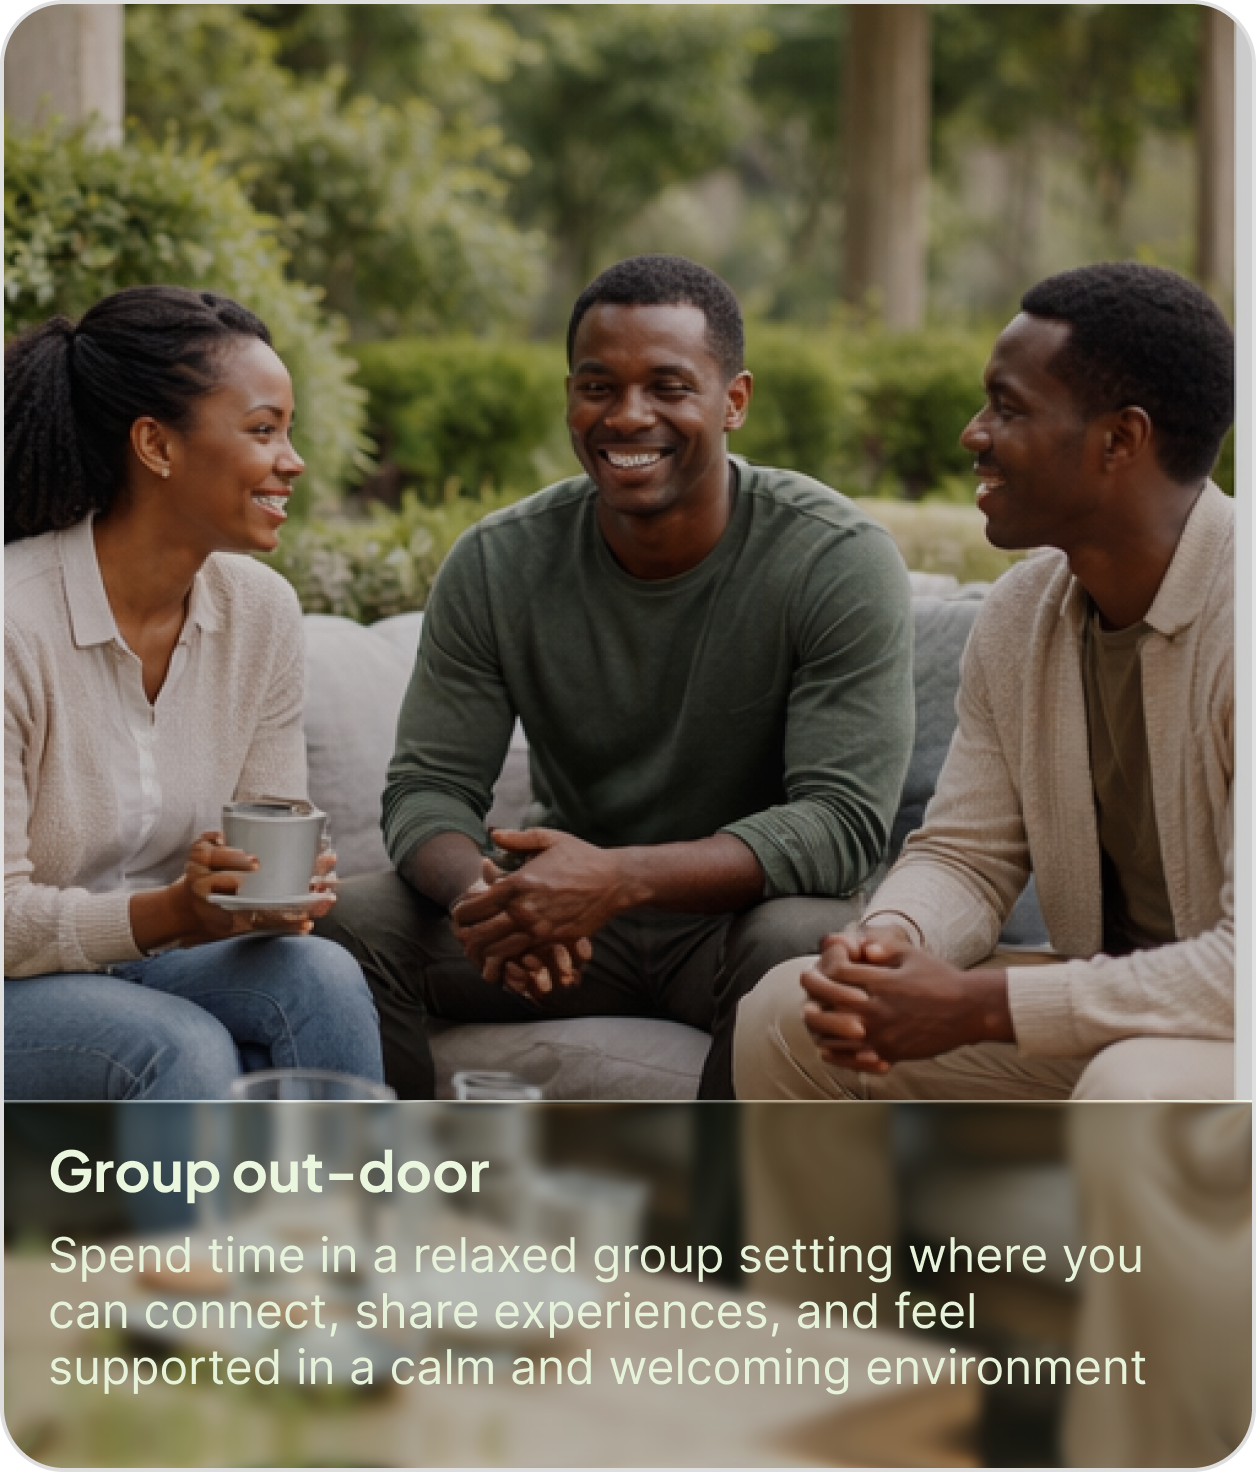
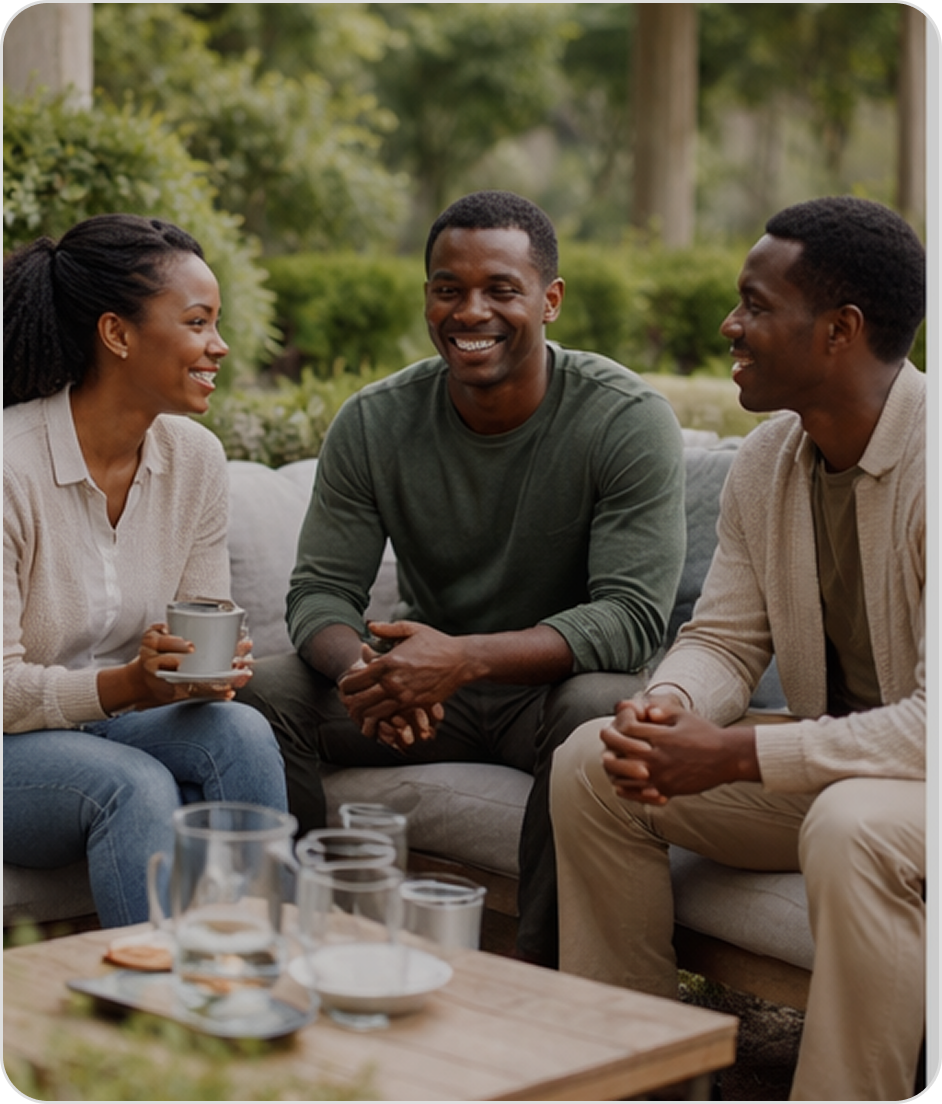
touched on camp page, added anmations to cards too

Changed region(s): [[0.0, 0.7391, 0.9236, 1.0], [0.6465, 0.7391, 1.0, 1.0], [0.0, 0.8931, 0.0308, 0.9239]]

diff --git a/components/pages/camps/glimpse.tsx b/components/pages/camps/glimpse.tsx
@@ -1,27 +1,30 @@
+"use client"; 
+
 import { Pill } from "@/components/ui/pill";
 import Image from "next/image";
+import { motion } from "motion/react";
 
 export function GlimpseGallery() {
   const images = [
     {
-      src: "/images/glimpse-1.webp", // using placeholder images
-      title: "Nature Walks",
-      subtitle: "Connect with the outdoors",
+      src: "/images/glimpse-1.png", 
+      title: "Group out-door",
+      subtitle: "Spend time in a relaxed group setting where you can connect, share experiences, and feel supported in a calm and welcoming environment",
     },
     {
-      src: "/images/glimpse-2.webp",
+      src: "/images/glimpse-2.png",
       title: "Journaling",
-      subtitle: "Time for quiet reflection",
+      subtitle: "Take quiet moments to reflect through guided journaling, helping you process thoughts and gain clarity at your own pace.",
     },
     {
-      src: "/images/glimpse-3.webp",
-      title: "Group Sessions",
-      subtitle: "Share and grow together",
+      src: "/images/glimpse-3.png",
+      title: "Walking in Nature",
+      subtitle: "Enjoy slow, mindful walks in a serene environment designed to help you reset, breathe, and reconnect with yourself.",
     },
     {
-      src: "/images/glimpse-4.webp",
-      title: "Quiet Meditation",
-      subtitle: "Find your inner peace",
+      src: "/images/glimpse-4.png",
+      title: "Calm Conversations",
+      subtitle: "Engage in gentle, meaningful conversations that allow you to express yourself freely and feel heard without pressure.",
     },
   ];
 
@@ -34,9 +37,13 @@ export function GlimpseGallery() {
 
       <div className="grid grid-cols-1 sm:grid-cols-2 lg:grid-cols-4 gap-4 w-full max-w-7xl">
         {images.map((img, idx) => (
-          <div
+          <motion.div
             key={idx}
-            className="group relative w-ull h-[368px] rounded-[16px] overflow-hidden bg-gray-200 cursor-pointer"
+            className="group relative w-full h-92 rounded-[16px] overflow-hidden bg-gray-200 cursor-pointer"
+            initial={{ opacity: 0, y: 24, scale: 0.98 }}
+            whileInView={{ opacity: 1, y: 0, scale: 1 }}
+            viewport={{ once: true, amount: 0.3 }}
+            transition={{ duration: 0.45, ease: "easeOut", delay: idx * 0.08 }}
           >
             <Image
               src={img.src}
@@ -44,14 +51,13 @@ export function GlimpseGallery() {
               fill
               className="object-cover transition-transform duration-500 group-hover:scale-110"
             />
-            {/* <div className="absolute inset-0 bg-gradient-to-b from-transparent via-black/20 to-black/80"></div> */}
-            {/* <div className="absolute bottom-6 left-6 right-6">
-              <h3 className="text-white font-semibold text-lg mb-1">
+            <div className="absolute bottom-0 backdrop-blur-xs bg-black/10 left-0 right-0 p-4">
+              <h3 className="text-[#EBF6DF] font-bold text-base ">
                 {img.title}
               </h3>
-              <p className="text-white/80 text-sm">{img.subtitle}</p>
-            </div> */}
-          </div>
+              <p className="text-[#E6F2D9] leading-3.5 text-sm">{img.subtitle}</p>
+            </div>
+          </motion.div>
         ))}
       </div>
     </section>

diff --git a/components/pages/consultation/areas-of-support.tsx b/components/pages/consultation/areas-of-support.tsx
@@ -1,4 +1,5 @@
 import { Pill } from "@/components/ui/pill";
+import { motion } from "motion/react";
 
 const areas = [
   {
@@ -259,6 +260,25 @@ const areas = [
 ];
 
 export function AreasOfSupport() {
+  const containerVariants = {
+    hidden: {},
+    visible: {
+      transition: {
+        staggerChildren: 0.08,
+        delayChildren: 0.05,
+      },
+    },
+  } as const;
+
+  const cardVariants = {
+    hidden: { opacity: 0, x: -24 },
+    visible: {
+      opacity: 1,
+      x: 0,
+      transition: { duration: 0.4, ease: "easeOut" },
+    },
+  } as const;
+
   return (
     <section className="py-10 lg:py-24">
       <div className="container mx-auto  flex flex-col items-center text-center">
@@ -268,10 +288,17 @@ export function AreasOfSupport() {
           needs
         </h2>
 
-        <div className="grid grid-cols-1 md:grid-cols-2 lg:grid-cols-3 gap-6 w-full max-w-6xl">
+        <motion.div
+          className="grid grid-cols-1 md:grid-cols-2 lg:grid-cols-3 gap-6 w-full max-w-6xl"
+          variants={containerVariants}
+          initial="hidden"
+          whileInView="visible"
+          viewport={{ once: true, amount: 0.25 }}
+        >
           {areas.map((area, index) => (
-            <div
+            <motion.div
               key={index}
+              variants={cardVariants}
               className="flex flex-col text-left p-8 rounded-[10px] border-[0.87px] border-[#F3F4F6]  bg-white"
             >
               <div
@@ -285,9 +312,9 @@ export function AreasOfSupport() {
               <p className="text-[#4A5565] text-base leading-[1.425rem]">
                 {area.description}
               </p>
-            </div>
+            </motion.div>
           ))}
-        </div>
+        </motion.div>
       </div>
     </section>
   );

diff --git a/components/pages/homepage/our-team.tsx b/components/pages/homepage/our-team.tsx
@@ -28,6 +28,16 @@ export function OurTeam() {
     },
   ];
 
+  const containerVariants = {
+    hidden: {},
+    visible: {
+      transition: {
+        staggerChildren: 0.15,
+        delayChildren: 0.05,
+      },
+    },
+  } as const;
+
   const cardVariants = {
     hidden: { opacity: 0, y: 24, scale: 0.98 },
     visible: {
@@ -47,15 +57,17 @@ export function OurTeam() {
         and walk the journey with you.
       </h2>
 
-      <div className="grid grid-cols-1 sm:grid-cols-2 lg:grid-cols-4 gap-8 w-full max-w-5xl">
+      <motion.div
+        className="grid grid-cols-1 sm:grid-cols-2 lg:grid-cols-4 gap-8 w-full max-w-5xl"
+        variants={containerVariants}
+        initial="hidden"
+        whileInView="visible"
+        viewport={{ once: true, amount: 0.2 }}
+      >
         {team.map((member, index) => (
           <motion.div
             key={index}
             variants={cardVariants}
-            initial="hidden"
-            whileInView="visible"
-            viewport={{ once: true, amount: 0.3 }}
-            transition={{ duration: 0.45, ease: "easeOut", delay: index * 0.08 }}
             className="flex flex-col shadow-[0px_4px_4px_#00000014]"
           >
             <div className="w-full h-75 mb-6 relative overflow-hidden bg-transparent">
@@ -79,7 +91,7 @@ export function OurTeam() {
             </p> */}
           </motion.div>
         ))}
-      </div>
+      </motion.div>
     </section>
   );
 }

diff --git a/components/pages/homepage/how-we-help.tsx b/components/pages/homepage/how-we-help.tsx
@@ -33,6 +33,16 @@ export function HowWeHelp() {
     },
   ];
 
+  const containerVariants = {
+    hidden: {},
+    visible: {
+      transition: {
+        staggerChildren: 0.12,
+        delayChildren: 0.05,
+      },
+    },
+  } as const;
+
   const cardVariants = {
     hidden: { opacity: 0, y: 24, scale: 0.98 },
     visible: {
@@ -55,15 +65,17 @@ export function HowWeHelp() {
       </h2>
 
       {/* Grid */}
-      <motion.div className="grid grid-cols-1 md:grid-cols-2 lg:grid-cols-3 gap-8 lg:gap-5 xl:gap-8 w-full sm:w-8/12 md:w-full sm:mx-auto mt-10 max-w-6xl">
+      <motion.div
+        className="grid grid-cols-1 md:grid-cols-2 lg:grid-cols-3 gap-8 lg:gap-5 xl:gap-8 w-full sm:w-8/12 md:w-full sm:mx-auto mt-10 max-w-6xl"
+        variants={containerVariants}
+        initial="hidden"
+        whileInView="visible"
+        viewport={{ once: true, amount: 0.2 }}
+      >
         {cards.map((card, index) => (
           <motion.div
             key={index}
             variants={cardVariants}
-            initial="hidden"
-            whileInView="visible"
-            viewport={{ once: true, amount: 0.3 }}
-            transition={{ duration: 0.4, ease: "easeOut", delay: index * 0.07 }}
             className="flex flex-col rounded-2xl border border-[#DEDEDE] bg-white p-4 lg:p-5 hover:shadow-[0px_2px_20px_rgba(0,0,0,0.08)] transition-shadow"
           >
             {/* Image Placeholder */}
